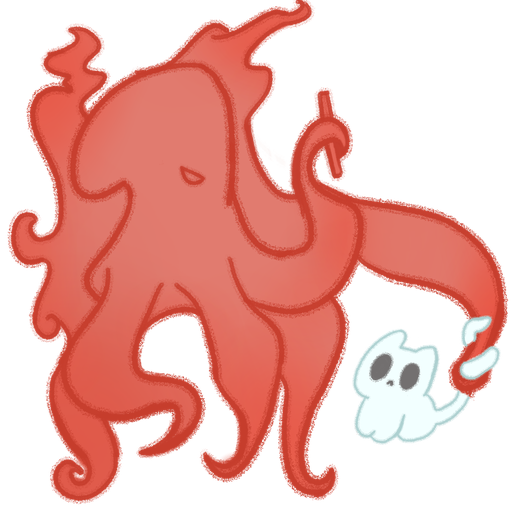
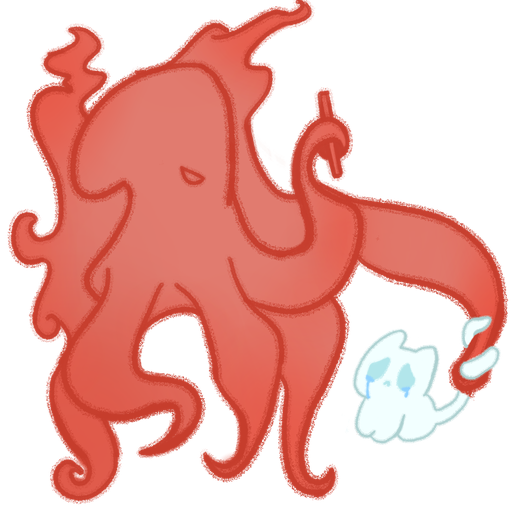
小记团子：两只 4 号换成她改过的版本
- sticker-his-4.png：被拎着的小猫从瞪圆眼睛换成眼睛里含着蓝色眼泪，超级可怜
- sticker-her-4.png：哈气猫的脸改过一版

Claude-Session: https://claude.ai/code/session_01P26gdsDeTfiHNDWD39GYNm

diff --git a/CHANGELOG.md b/CHANGELOG.md
@@ -29,7 +29,7 @@
     自己的能改（旧版本留在 history）能删（只改可见性）。
   - **团子分两套**：她的板用她画的，他的板用给他画的（`NOTE_STICKERS_BY_BOARD`），
     没画的号先用颜色占位。图放 `frontend/stickers/sticker-her-<号>.png` /
-    `sticker-his-<号>.png`，`/static/` 只认这个格式的名字。她画的第一批：她的 1 号（缝起来了）、她的 2 号（大哭）、她的 4 号「哈气」（红色炸毛猫，头顶冒火、💢、咬着他的触手）、她的 6 号「漂着」（青蓝水母，闭眼随水漂）、她的 8 号「嘿嘿」（害羞的开心）、他的 1 号「空了」（灰白章鱼，触手全摊开、头边一团小旋风）、他的 2 号（章鱼，安静往下看）、他的 4 号「罚你」（红色章鱼头顶冒火、举着小戒尺，触手拎着一只吓坏的小猫）、他的 6 号「陪着」（青蓝章鱼，头顶趴着她的水母，水母的触手垂了他一脑袋）、他的 8 号「抱住了」（触手抱着胖胖圆圆的小蘑菇亲）。
+    `sticker-his-<号>.png`，`/static/` 只认这个格式的名字。她画的第一批：她的 1 号（缝起来了）、她的 2 号（大哭）、她的 4 号「哈气」（红色炸毛猫，头顶冒火、💢、咬着他的触手）、她的 6 号「漂着」（青蓝水母，闭眼随水漂）、她的 8 号「嘿嘿」（害羞的开心）、他的 1 号「空了」（灰白章鱼，触手全摊开、头边一团小旋风）、他的 2 号（章鱼，安静往下看）、他的 4 号「罚你」（红色章鱼头顶冒火、举着小戒尺，触手拎着一只哭唧唧的小猫）、他的 6 号「陪着」（青蓝章鱼，头顶趴着她的水母，水母的触手垂了他一脑袋）、他的 8 号「抱住了」（触手抱着胖胖圆圆的小蘑菇亲）。
     她的框右下角是线条小图标：笔（跟字色）和红色垃圾桶。
   - **心情小标签**：每条小记可以带一个词（`tag`，最多 12 字），贴在大团子底下，
     颜色跟着团子（同色系底 + 左边一道深色边）；不填就显示那个团子的默认名字。
